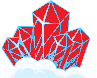
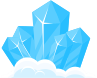
adding the crystal as obstacle

diff --git a/NinjaGame/game.js b/NinjaGame/game.js
@@ -38,7 +38,10 @@ let gameOptions = {
   jumps: 2,
 
   // % of probability a coin appears on the platform
-  coinPercent: 25
+  coinPercent: 25,
+
+  // % of probability crystal appears on the platform
+  enemyPercent: 25
 }
 
 window.onload = function () {
@@ -68,6 +71,8 @@ class preloadGame extends Phaser.Scene {
   }
   preload () {
     this.load.image('platform', 'assets/platform.png')
+
+    this.load.image('enemy', 'assets/crystal.png')
 
     // player is a sprite sheet made by 24x48 pixels
     this.load.spritesheet('player', 'assets/player.png', {
@@ -160,6 +165,22 @@ class playGame extends Phaser.Scene {
       }
     })
 
+    // group with all active enemies
+    this.enemyGroup = this.add.group({
+      // once an enemy is removed, it's added to the pool
+      removeCallback: function (enemy) {
+        enemy.scene.enemyPool.add(enemy)
+      }
+    })
+
+    // enemy pool
+    this.enemyPool = this.add.group({
+      // once an enemy is removed from the pool, it's added to the active enemy group
+      removeCallback: function (enemy) {
+        enemy.scene.enemyGroup.add(enemy)
+      }
+    })
+
     // adding a mountain
     this.addMountains()
 
@@ -178,7 +199,7 @@ class playGame extends Phaser.Scene {
     this.player.setDepth(2)
 
     // setting collisions between the player and the platform group
-    this.physics.add.collider(this.player, this.platformGroup, function () {
+    this.platformCollider = this.physics.add.collider(this.player, this.platformGroup, function () {
       // play "run" animation if the player is on a platform
       if (!this.player.anims.isPlaying) {
         this.player.anims.play('run')
@@ -199,6 +220,14 @@ class playGame extends Phaser.Scene {
           this.coinGroup.remove(coin)
         }
       })
+    }, null, this)
+
+    // setting collisions between th player and the enemy group
+    this.physics.add.overlap(this.player, this.enemyGroup, function (player, enemy) {
+      this.dying = true
+      this.player.anims.stop()
+      this.player.setFrame(2)
+      this.physics.world.removeCollider(this.platformCollider)
     }, null, this)
 
     // checking for input
@@ -230,7 +259,7 @@ class playGame extends Phaser.Scene {
     return rightmostMountain
   }
 
-  // the core of the script: platform are added from the pool or created on the fly
+  // the core of the script: platforms are added from the pool or created on the fly
   addPlatform (platformWidth, posX, posY) {
     this.addedPlatforms++
     let platform
@@ -273,6 +302,25 @@ class playGame extends Phaser.Scene {
           coin.setDepth(2)
           this.coinGroup.add(coin)
         }
+      }
+    }
+
+    // is there an enemy over the platform?
+    if (Phaser.Math.Between(1, 100) <= gameOptions.percent) {
+      if (this.enemyPool.getLength()) {
+        let enemy = this.enemyPool.getFirst()
+        enemy.x = posX - platformWidth / 2 + Phaser.Math.Between(1, platformWidth)
+        enemy.y = posY - 46
+        enemy.alpha = 1
+        enemy.active = true
+        this.enemyPool.remove(enemy)
+      } else {
+        let enemy = this.physics.add.image(posX - platformWidth / 2 + Phaser.Math.Between(1, platformWidth), posY - 46, 'enemy')
+        enemy.setImmovable(true)
+        enemy.setVelocityX(platform.body.velocity.x)
+        enemy.setSize(8, 2, true)
+        enemy.setDepth(2)
+        this.enemyGroup.add(enemy)
       }
     }
   }
@@ -319,6 +367,14 @@ class playGame extends Phaser.Scene {
       if (coin.x < -coin.displayWidth / 2) {
         this.coinGroup.killAndHide(coin)
         this.coinGroup.remove(coin)
+      }
+    }, this)
+
+    // recycling enemies
+    this.enemyGroup.getChildren().forEach(function (enemy) {
+      if (enemy.x < -enemy.displayWidth / 2) {
+        this.enemyGroup.killAndHide(enemy)
+        this.enemyGroup.remove(enemy)
       }
     }, this)
 
